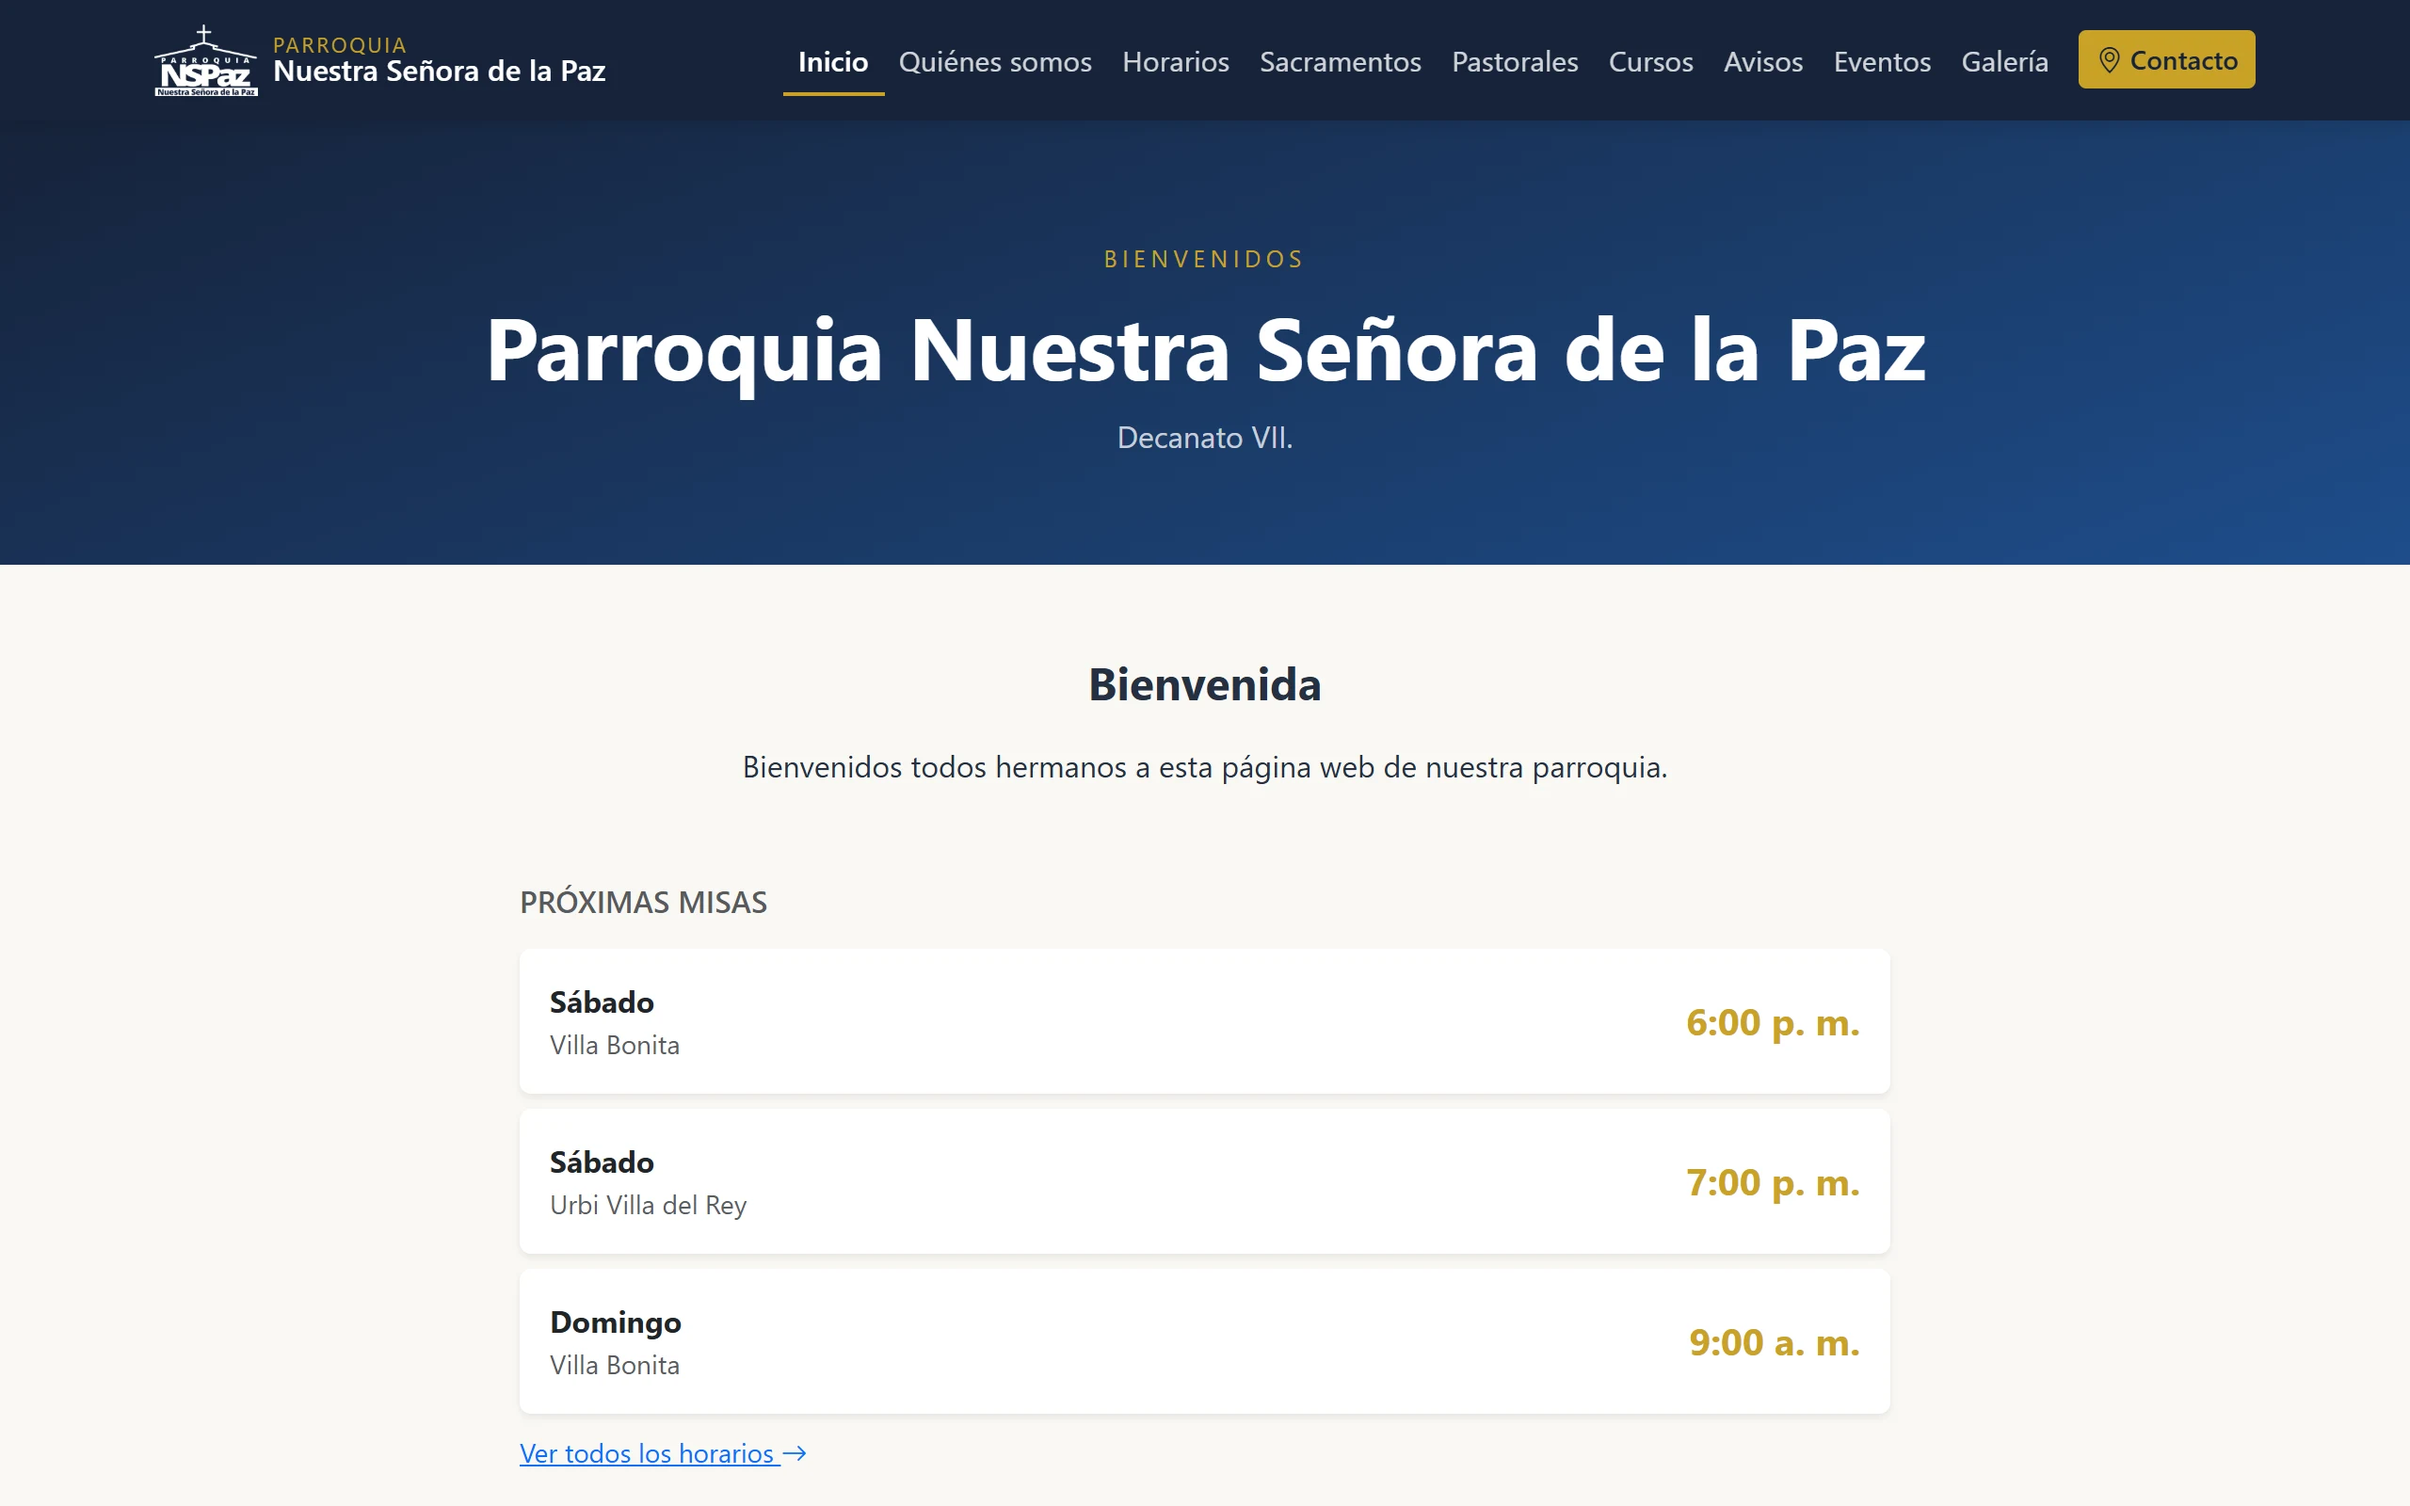
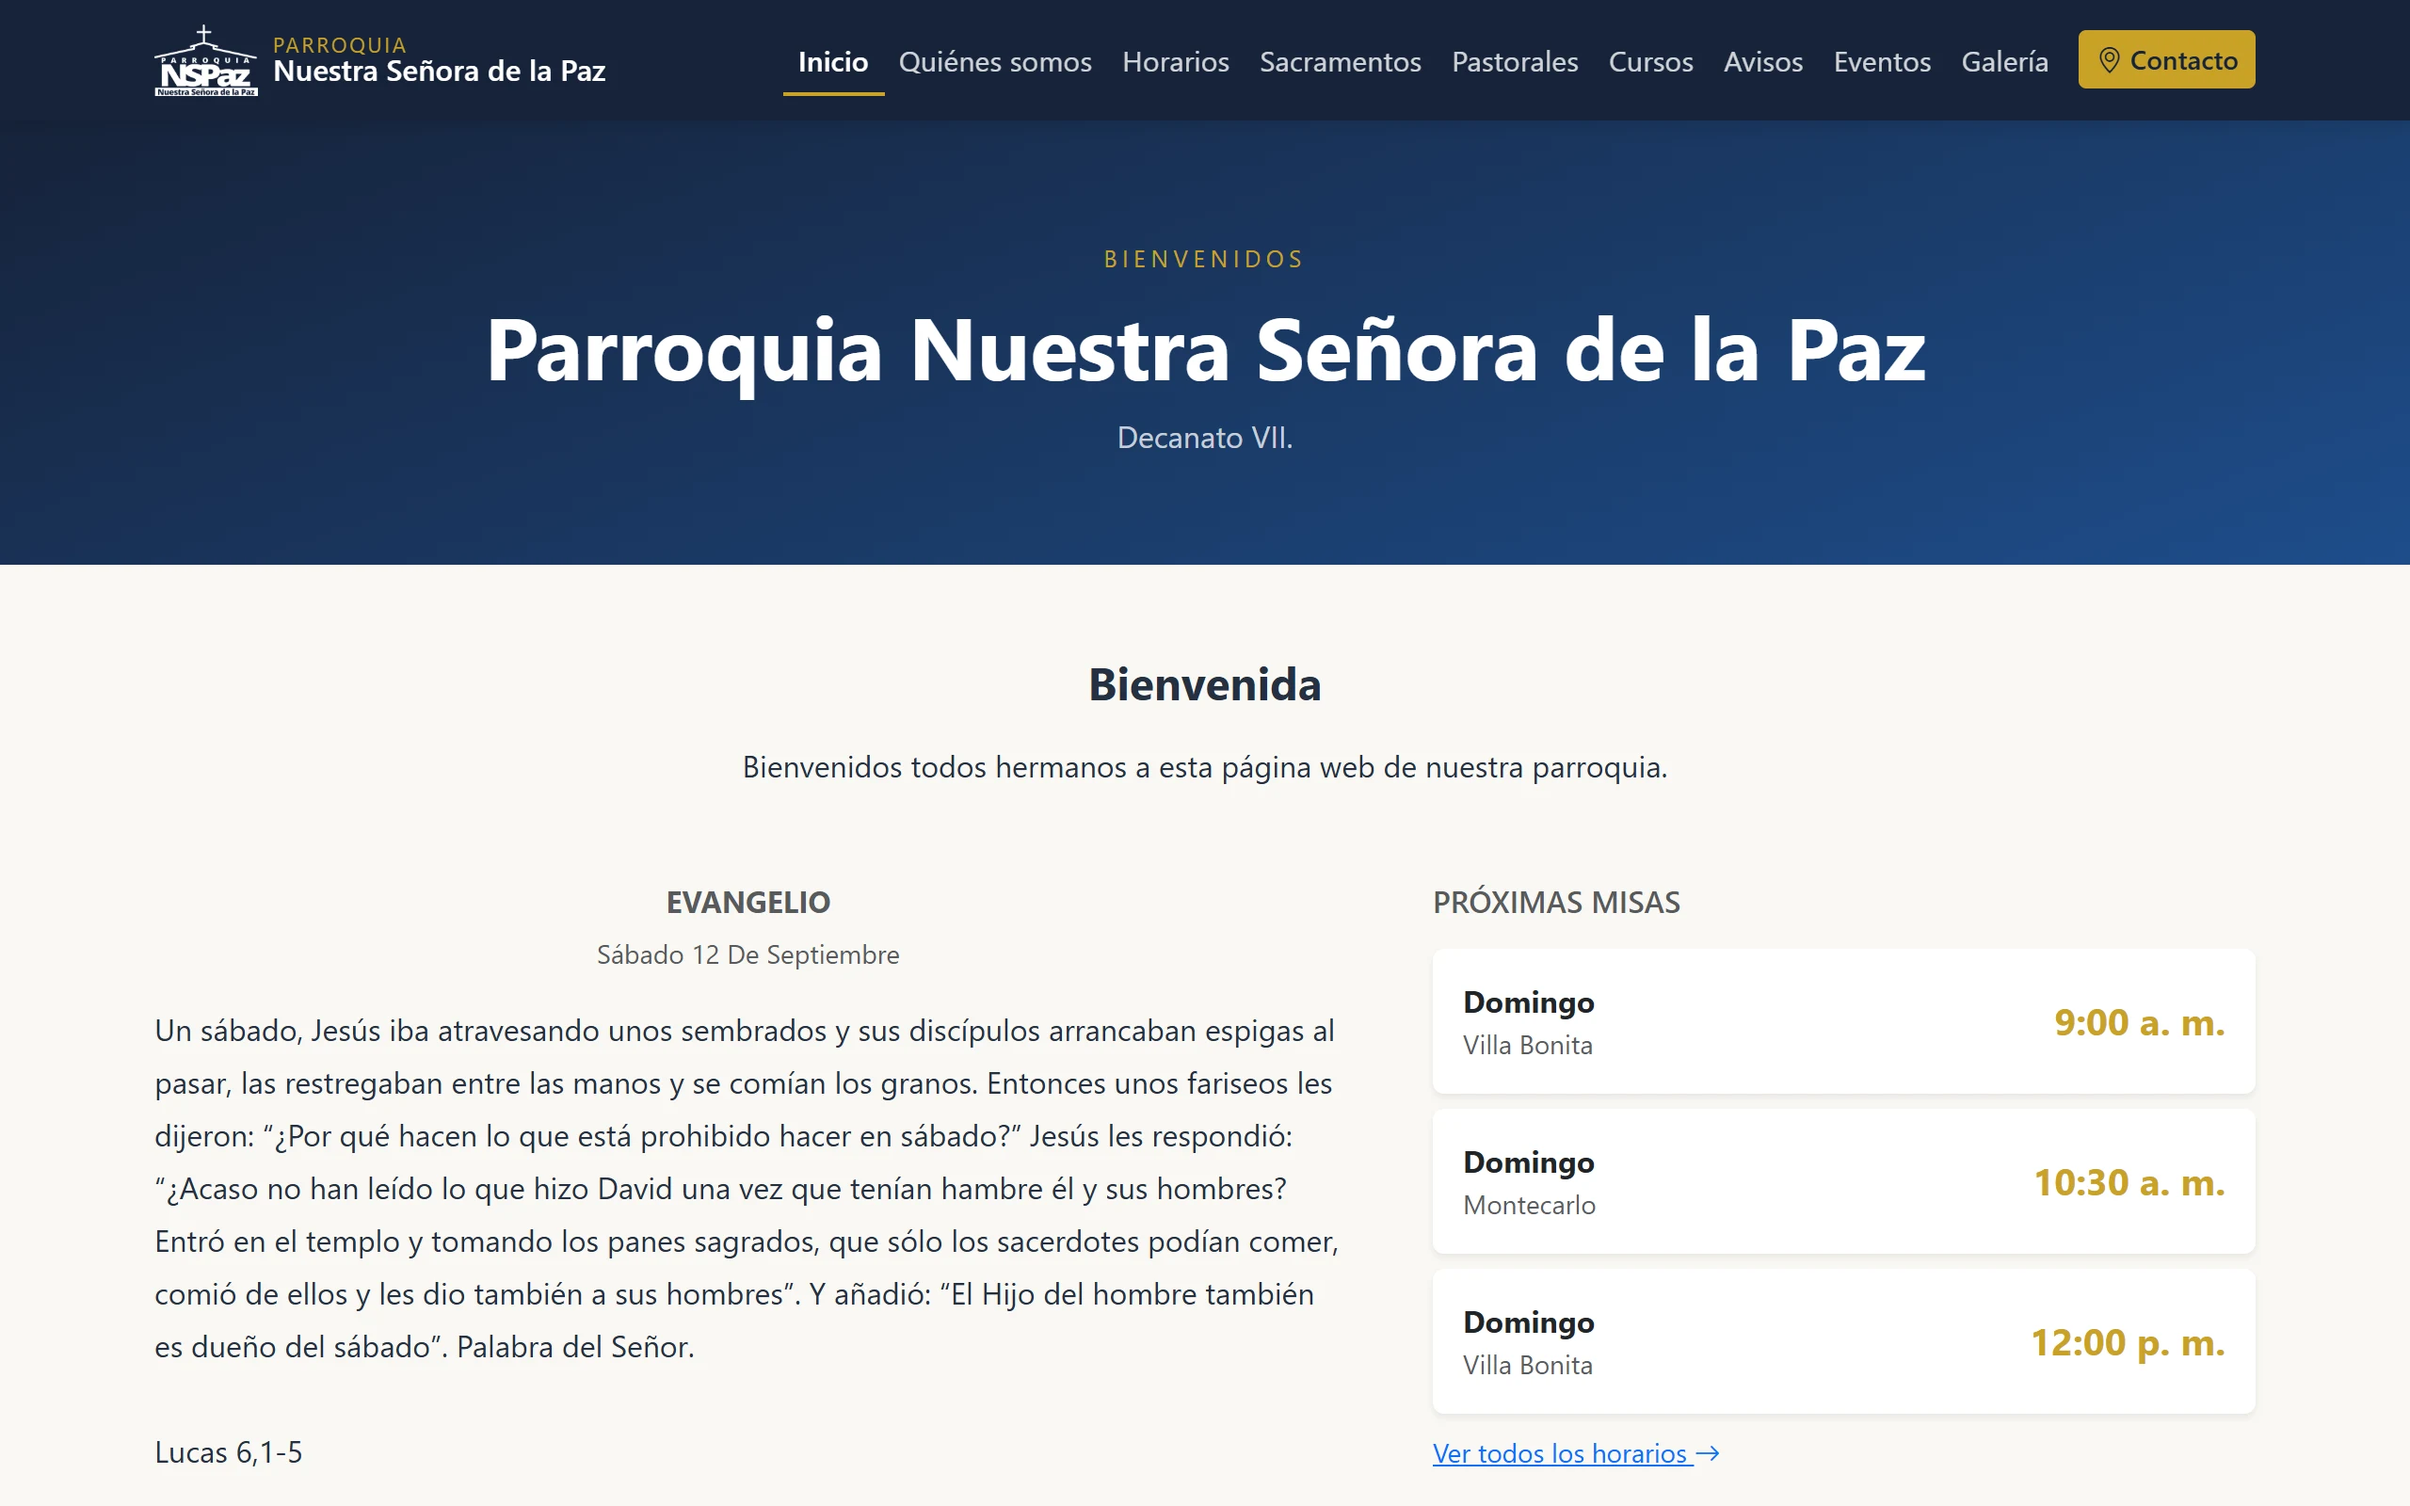
La portada del manual ya ensena el evangelio del dia
La captura se tomo por la manana, cuando no habia entrada publicada para
hoy, asi que la portada salia sin esa seccion: el capitulo la explicaba y la
imagen no la mostraba. Rehecha con el evangelio del sabado ya publicado, se
ve ademas el reparto a dos columnas -evangelio a la izquierda, proximas
misas a la derecha- que solo existe cuando hay lectura del dia.

Y la portada de arriba abajo, que estaba capturada pero sin usarse en ningun
capitulo, se incrusta ahora al final de esa misma seccion.

diff --git a/docs/manual/01-el-sitio-publico.md b/docs/manual/01-el-sitio-publico.md
@@ -84,6 +84,10 @@ ejemplo—. Si se deja vacía, no aparece.
 
 > **Se llena desde:** Contenido → Bloques.
 
+Así se ve la portada entera, con todas esas secciones una debajo de otra:
+
+![Portada del sitio, de arriba abajo](img/publico-inicio-completa.webp)
+
 ## Quiénes somos
 
 ![Quiénes somos](img/publico-nosotros.webp)
